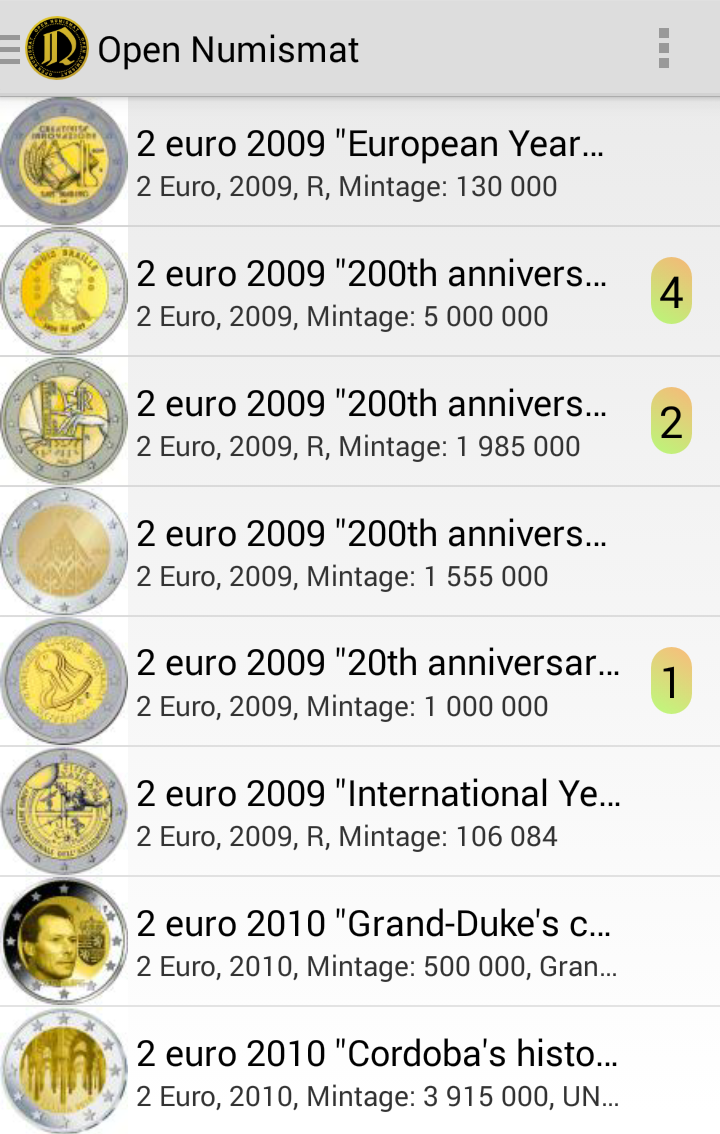
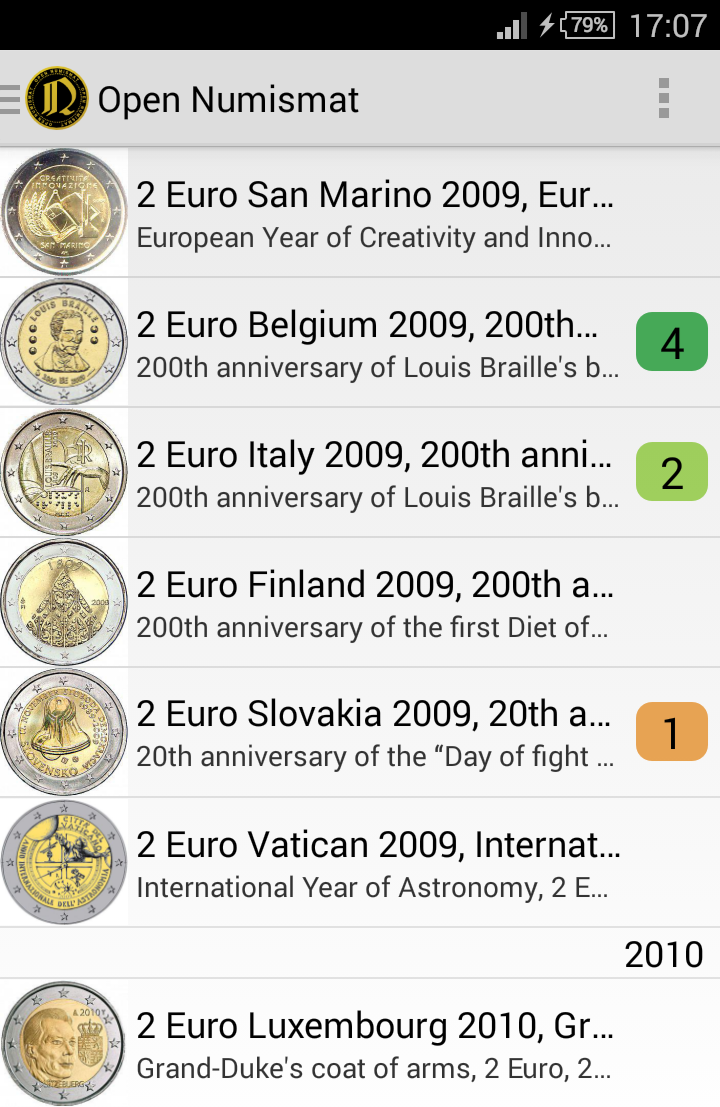
Added images to main page

diff --git a/index.html b/index.html
@@ -26,7 +26,7 @@ function redirectpage(dest){
 
 for (i=0;i<langcodes.length-1;i++){
   if (languageinfo.substr(0,2)==langcodes[i]){
-    redirectpage(langredirects[i]);
+//    redirectpage(langredirects[i]);
     break;
   }
 }
@@ -65,22 +65,8 @@ for (i=0;i<langcodes.length-1;i++){
 
     <!-- MAIN CONTENT -->
     <div id="main_content_wrap" class="outer">
-      <section id="main_content" class="inner">
-<h3><a name="open-numismat" class="anchor" href="#open-numismat"><span class="octicon octicon-link"></span></a><a href="open-numismat">OpenNumismat</a></h3>
-<p><b>OpenNumismat</b> is a handy and reliable application aimed at coin lovers, numismatists or amateurs looking to create a numismatics collection.</p>
-<p>With <b>OpenNumismat</b>, you will be able to create, organize and manage your own coin catalogue with detailed description and photos for each of the items.</p>
-        
-<h3><a name="open-numismat-android" class="anchor" href="#open-numismat-android"><span class="octicon octicon-link"></span></a><a href="open-numismat-android">OpenNumismat for Android</a></h3>
-<p>With this application your coins collection always in your phone. You can use existent catalogues or create your own catalogue with desktop version of OpenNumismat.</p>
-
-<h3><a name="catalogues" class="anchor" href="#catalogues"><span class="octicon octicon-link"></span></a><a href="catalogues">Catalogues</a></h3>
-<p>A set of numismatic's catalogues.</p>
-
-<h3><a name="catalogues-mobile" class="anchor" href="#catalogues-mobile"><span class="octicon octicon-link"></span></a><a href="catalogues-mobile">Catalogues for mobile</a></h3>
-<p>A set of numismatic's catalogues for Android version.</p>
-
+      <section class="inner">
 <h3><a name="news" class="anchor" href="#news"><span class="octicon octicon-link"></span></a><a href="news">Project news</a></h3>
-<p>
 <ul>
   <li>28.10.2014 - Demo version of <a href="https://play.google.com/store/apps/details?id=janis.opennumismat">OpenNumismat for Android</a> released</li>
   <li>24.10.2014 - Created OpenNumismat feedback page on <a href="http://opennumismat.idea.informer.com/">Idea.Informer</a></li>
@@ -89,8 +75,37 @@ for (i=0;i<langcodes.length-1;i++){
   <li>25.07.2014 - Created OpenNumismat translation project on <a href="https://www.transifex.com/projects/p/opennumismat/" rel="nofollow">Transifex</a>.</li>
 </ul>
 <a href="news">Older...</a>
-</p>
+      </section>
 
+      <section class="inner-image">
+      <div class="content">
+<h3><a name="open-numismat" class="anchor" href="#open-numismat"><span class="octicon octicon-link"></span></a><a href="open-numismat">OpenNumismat</a></h3>
+<p><b>OpenNumismat</b> is a handy and reliable application aimed at coin lovers, numismatists or amateurs looking to create a numismatics collection.</p>
+<p>With <b>OpenNumismat</b>, you will be able to create, organize and manage your own coin catalogue with detailed description and photos for each of the items.</p>
+      </div>
+      <div class="content-image"><img src="/images/screenMain.png"></div>
+      </section>
+      
+      <section class="inner-image">
+      <div class="content">
+<h3><a name="open-numismat-android" class="anchor" href="#open-numismat-android"><span class="octicon octicon-link"></span></a><a href="open-numismat-android">OpenNumismat for Android</a></h3>
+<p>With this application your coins collection always in your phone. You can use existent catalogues or create your own catalogue with desktop version of OpenNumismat.</p>
+      </div>
+      <div class="content-image"><img src="/images/android-main.png"></div>
+      </section>
+
+      <section class="inner-image">
+      <div class="content">
+<h3><a name="catalogues" class="anchor" href="#catalogues"><span class="octicon octicon-link"></span></a><a href="catalogues">Catalogues</a></h3>
+<p>A set of numismatic's catalogues.</p>
+
+<h3><a name="catalogues-mobile" class="anchor" href="#catalogues-mobile"><span class="octicon octicon-link"></span></a><a href="catalogues-mobile">Catalogues for mobile</a></h3>
+<p>A set of numismatic's catalogues for Android version.</p>
+      </div>
+      <div class="content-image"><img src="/images/catalogues.png"></div>
+      </section>
+
+      <section class="inner">
 <h3><a name="old-site" class="anchor" href="#old-site"><span class="octicon octicon-link"></span></a><a href="https://code.google.com/p/open-numismat/">Old web-site</a></h3>
       </section>
     </div>

diff --git a/ru/index.html b/ru/index.html
@@ -35,17 +35,46 @@
 
     <!-- MAIN CONTENT -->
     <div id="main_content_wrap" class="outer">
-      <section id="main_content" class="inner"><h3>
+      <section class="inner">
+<h3>
+<a name="news" class="anchor" href="#news"><span class="octicon octicon-link"></span></a><a href="news">Новости проекта</a>
+</h3>
+<p>
+<ul>
+<li>28.10.2014 - Demo version of <a href="https://play.google.com/store/apps/details?id=janis.opennumismat">OpenNumismat for Android</a> released</li>
+  <li>24.10.2014 - Created OpenNumismat feedback page on <a href="http://opennumismat.idea.informer.com/">Idea.Informer</a>
+</li>
+  <li>09.09.2014 - Version 1.4.9 released (<a href="open-numismat/history.html">history of changes</a>)</li>
+  <li>06.08.2014 - Version 1.4.8 released</li>
+  <li>25.07.2014 - Created OpenNumismat translation project on <a href="https://www.transifex.com/projects/p/opennumismat/" rel="nofollow">Transifex</a>.</li>
+</ul>
+<a href="news">Ранее...</a>
+</p>
+      </section>
+
+      <section class="inner-image">
+      <div class="content">
+<h3>
 <a name="open-numismat" class="anchor" href="#open-numismat"><span class="octicon octicon-link"></span></a><a href="open-numismat">OpenNumismat</a>
 </h3>
 <p><b>OpenNumismat</b> является удобным и надежным приложением, предназначенным для коллекционеров монет и нумизматов, для создания нумизматической коллекции.</p>
 <p>С <b>OpenNumismat</b> вы сможете создавать, организовывать и управлять своими собственными каталогами монет с подробным описанием и фотографиями для каждого из элементов.</p>
-        
+</div>
+      <div class="content-image"><img src="/images/screenMain.png"></div>
+      </section>
+      
+      <section class="inner-image">
+      <div class="content">
 <h3>
 <a name="open-numismat-android" class="anchor" href="#open-numismat-android"><span class="octicon octicon-link"></span></a><a href="open-numismat-android">OpenNumismat для Android</a>
 </h3>
 <p>Благодаря OpenNumismat Ваша коллекция монет всегда на Вашем устройстве. Вы можете использовать существующие каталоги или создать свой собственный с помощью настольной версии OpenNumismat.</p>
+</div>
+      <div class="content-image"><img src="/images/android-main.png"></div>
+      </section>
 
+      <section class="inner-image">
+      <div class="content">
 <h3>
 <a name="catalogues" class="anchor" href="#catalogues"><span class="octicon octicon-link"></span></a><a href="catalogues">Каталоги</a>
 </h3>
@@ -55,25 +84,16 @@
 <a name="catalogues-mobile" class="anchor" href="#catalogues-mobile"><span class="octicon octicon-link"></span></a><a href="catalogues-mobile">Каталоги для мобильной версии</a>
 </h3>
 <p>Набор каталогов оптимизированных для версии под Android.</p>
+</div>
+      <div class="content-image"><img src="/images/catalogues.png"></div>
+      </section>
 
+      <section class="inner">
 <h3>
-<a name="news" class="anchor" href="#news"><span class="octicon octicon-link"></span></a><a href="news">Новости проекта</a>
-</h3>
-<p>
-</p>
-<ul>
-<li>28.10.2014 - Demo version of <a href="https://play.google.com/store/apps/details?id=janis.opennumismat">OpenNumismat for Android</a> released</li>
-  <li>24.10.2014 - Created OpenNumismat feedback page on <a href="http://opennumismat.idea.informer.com/">Idea.Informer</a>
-</li>
-  <li>09.09.2014 - Version 1.4.9 released (<a href="open-numismat/history.html">history of changes</a>)</li>
-  <li>06.08.2014 - Version 1.4.8 released</li>
-  <li>25.07.2014 - Created OpenNumismat translation project on <a href="https://www.transifex.com/projects/p/opennumismat/" rel="nofollow">Transifex</a>.</li>
-</ul>
-<a href="news">Ранее...</a><h3>
 <a name="old-site" class="anchor" href="#old-site"><span class="octicon octicon-link"></span></a><a href="https://code.google.com/p/open-numismat/">Старый web-сайт</a>
 </h3>
       </section>
-</div>
+    </div>
 
     <!-- FOOTER  -->
     <div id="footer_wrap" class="outer">

diff --git a/stylesheets/stylesheet.css b/stylesheets/stylesheet.css
@@ -269,8 +269,34 @@ Full-Width Styles
 .inner {
   position: relative;
   max-width: 680px;
-  padding: 20px 10px 20px 25px;
+  padding: 10px 10px 10px 25px;
   margin: 0 auto;
+}
+
+.inner-image {
+  position: relative;
+  max-width: 880px;
+  padding: 10px 210px 10px 25px;
+  margin: 0 auto;
+}
+
+div.content {
+  max-width: 680px;
+  display: inline-block;
+  min-height: 145px;
+}
+
+div.content-image {
+  width: 200px;
+  display: inline-block;
+  float: left;
+}
+
+div.content-image img {
+  padding-top: 10px;
+  padding-right: 10px;
+  float: right;
+  height: 150px;
 }
 
 .inner img {
@@ -325,10 +351,8 @@ Full-Width Styles
   background: #f2f2f2;
   border-top: 1px solid #111;
   border-bottom: 1px solid #111;
-}
-
-#main_content {
-  padding-top: 40px;
+  padding-top: 15px;
+  padding-bottom: 15px;
 }
 
 #footer_wrap {
@@ -359,9 +383,34 @@ Full-Width Styles
   color: #474747;
 }
 
+
 /*******************************************************************************
 Small Device Styles
 *******************************************************************************/
+
+@media screen and (max-width: 1115px) {
+.inner-image {
+  max-width: 680px;
+  padding: 10px 10px 10px 25px;
+}
+
+div.content {
+  min-height: auto;
+  display: auto;
+}
+
+div.content-image {
+  width: auto;
+  display: auto;
+  float: center;
+}
+
+div.content-image img {
+  padding: 0;
+  float: auto;
+  height: 250px;
+}
+}
 
 @media screen and (max-width: 480px) {
   body {
